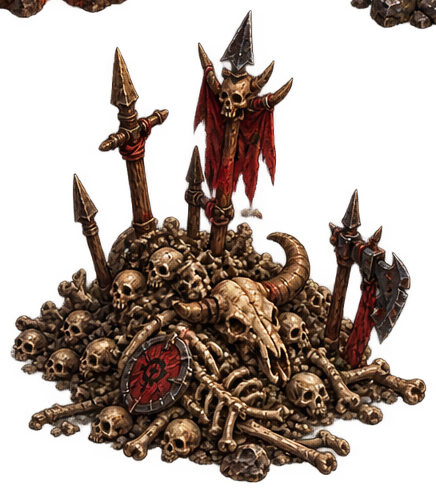
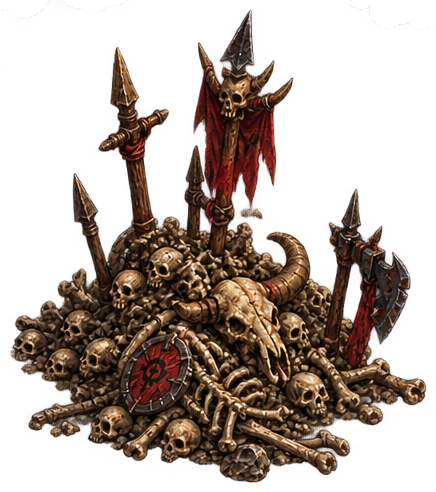
Wire Broodspiral portal; strip stray fragments and halos from dungeon props
Southern Barrens (225,220) <-> The Broodspiral (152,220) were never registered
in portal_manager, so the entrance did nothing. Also removed neighbour-sprite
fragments from 14 prop sprites and the white halo/holes on silithid props.

Claude-Session: https://claude.ai/code/session_015TQrViPbuGDeiupTWSG9TT

Changed region(s): [[0.805, 0.0, 1.0, 0.061], [0.1491, 0.0, 0.2982, 0.0305], [0.0, 0.0, 0.1193, 0.061]]

diff --git a/world/portal_manager.py b/world/portal_manager.py
@@ -218,6 +218,10 @@ class PortalManager:
             "Southern Barrens": {
                 (130, 2): ("Camp Taurajo", 32, 53),
                 (55, 175): ("Razorfen Kraul", 120, 208),
+                (225, 220): ("The Broodspiral", 152, 220),
+            },
+            "The Broodspiral": {
+                (152, 220): ("Southern Barrens", 225, 220),
             },
             "Razorfen Kraul": {
                 (120, 208): ("Southern Barrens", 55, 175),
